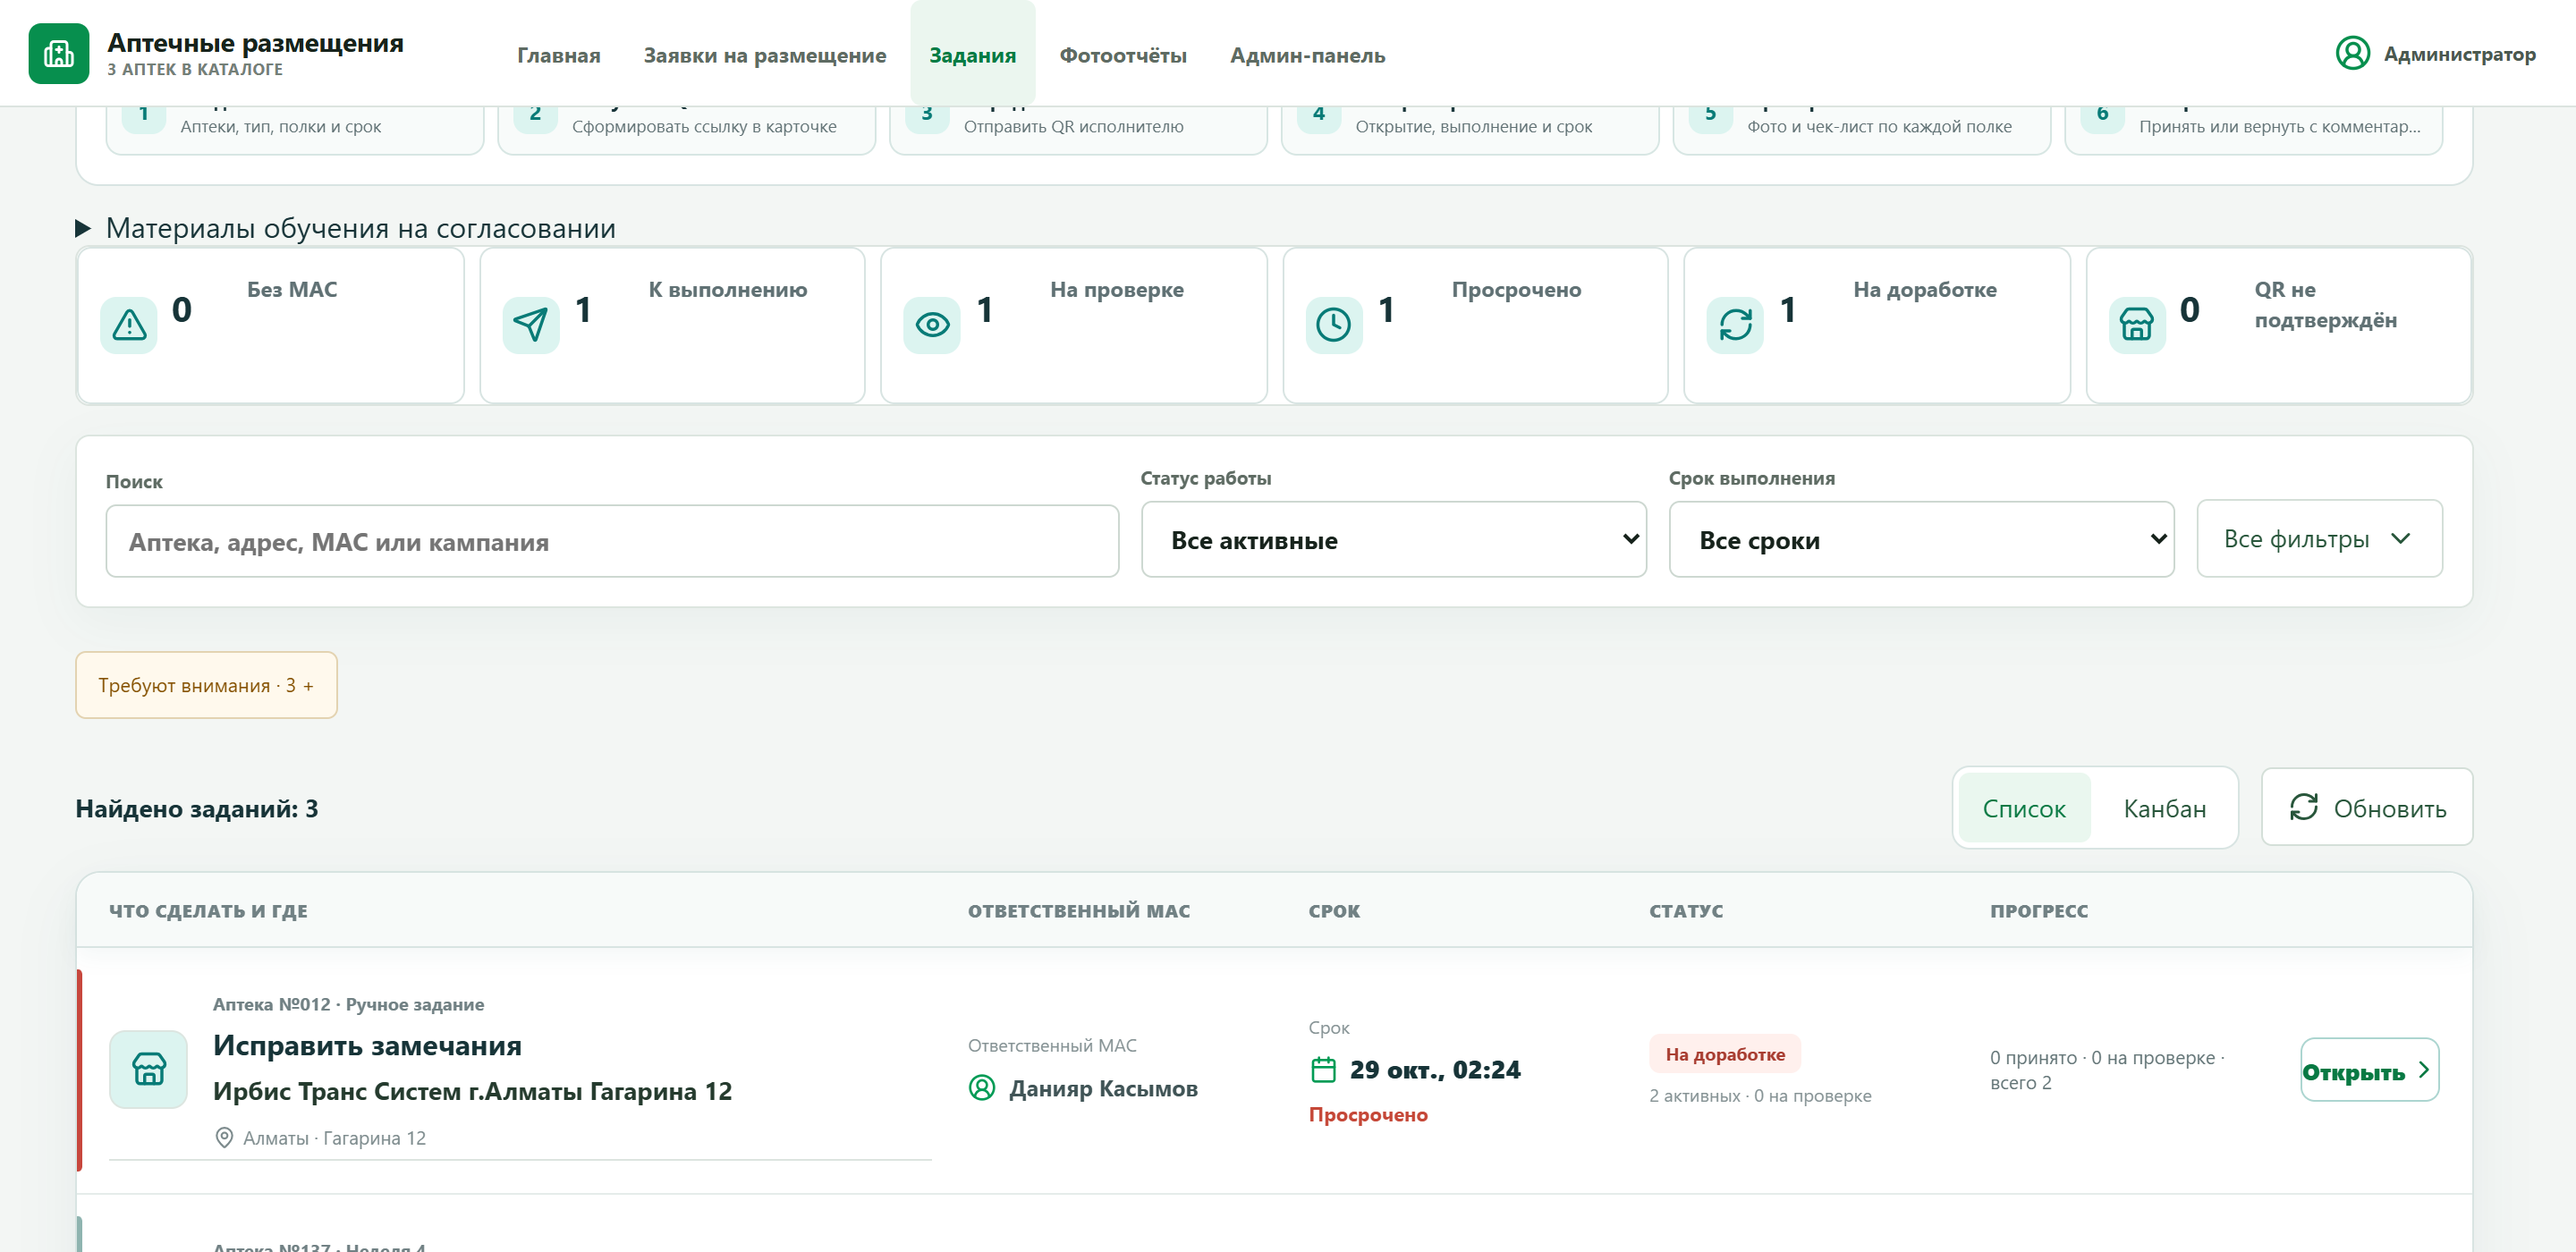
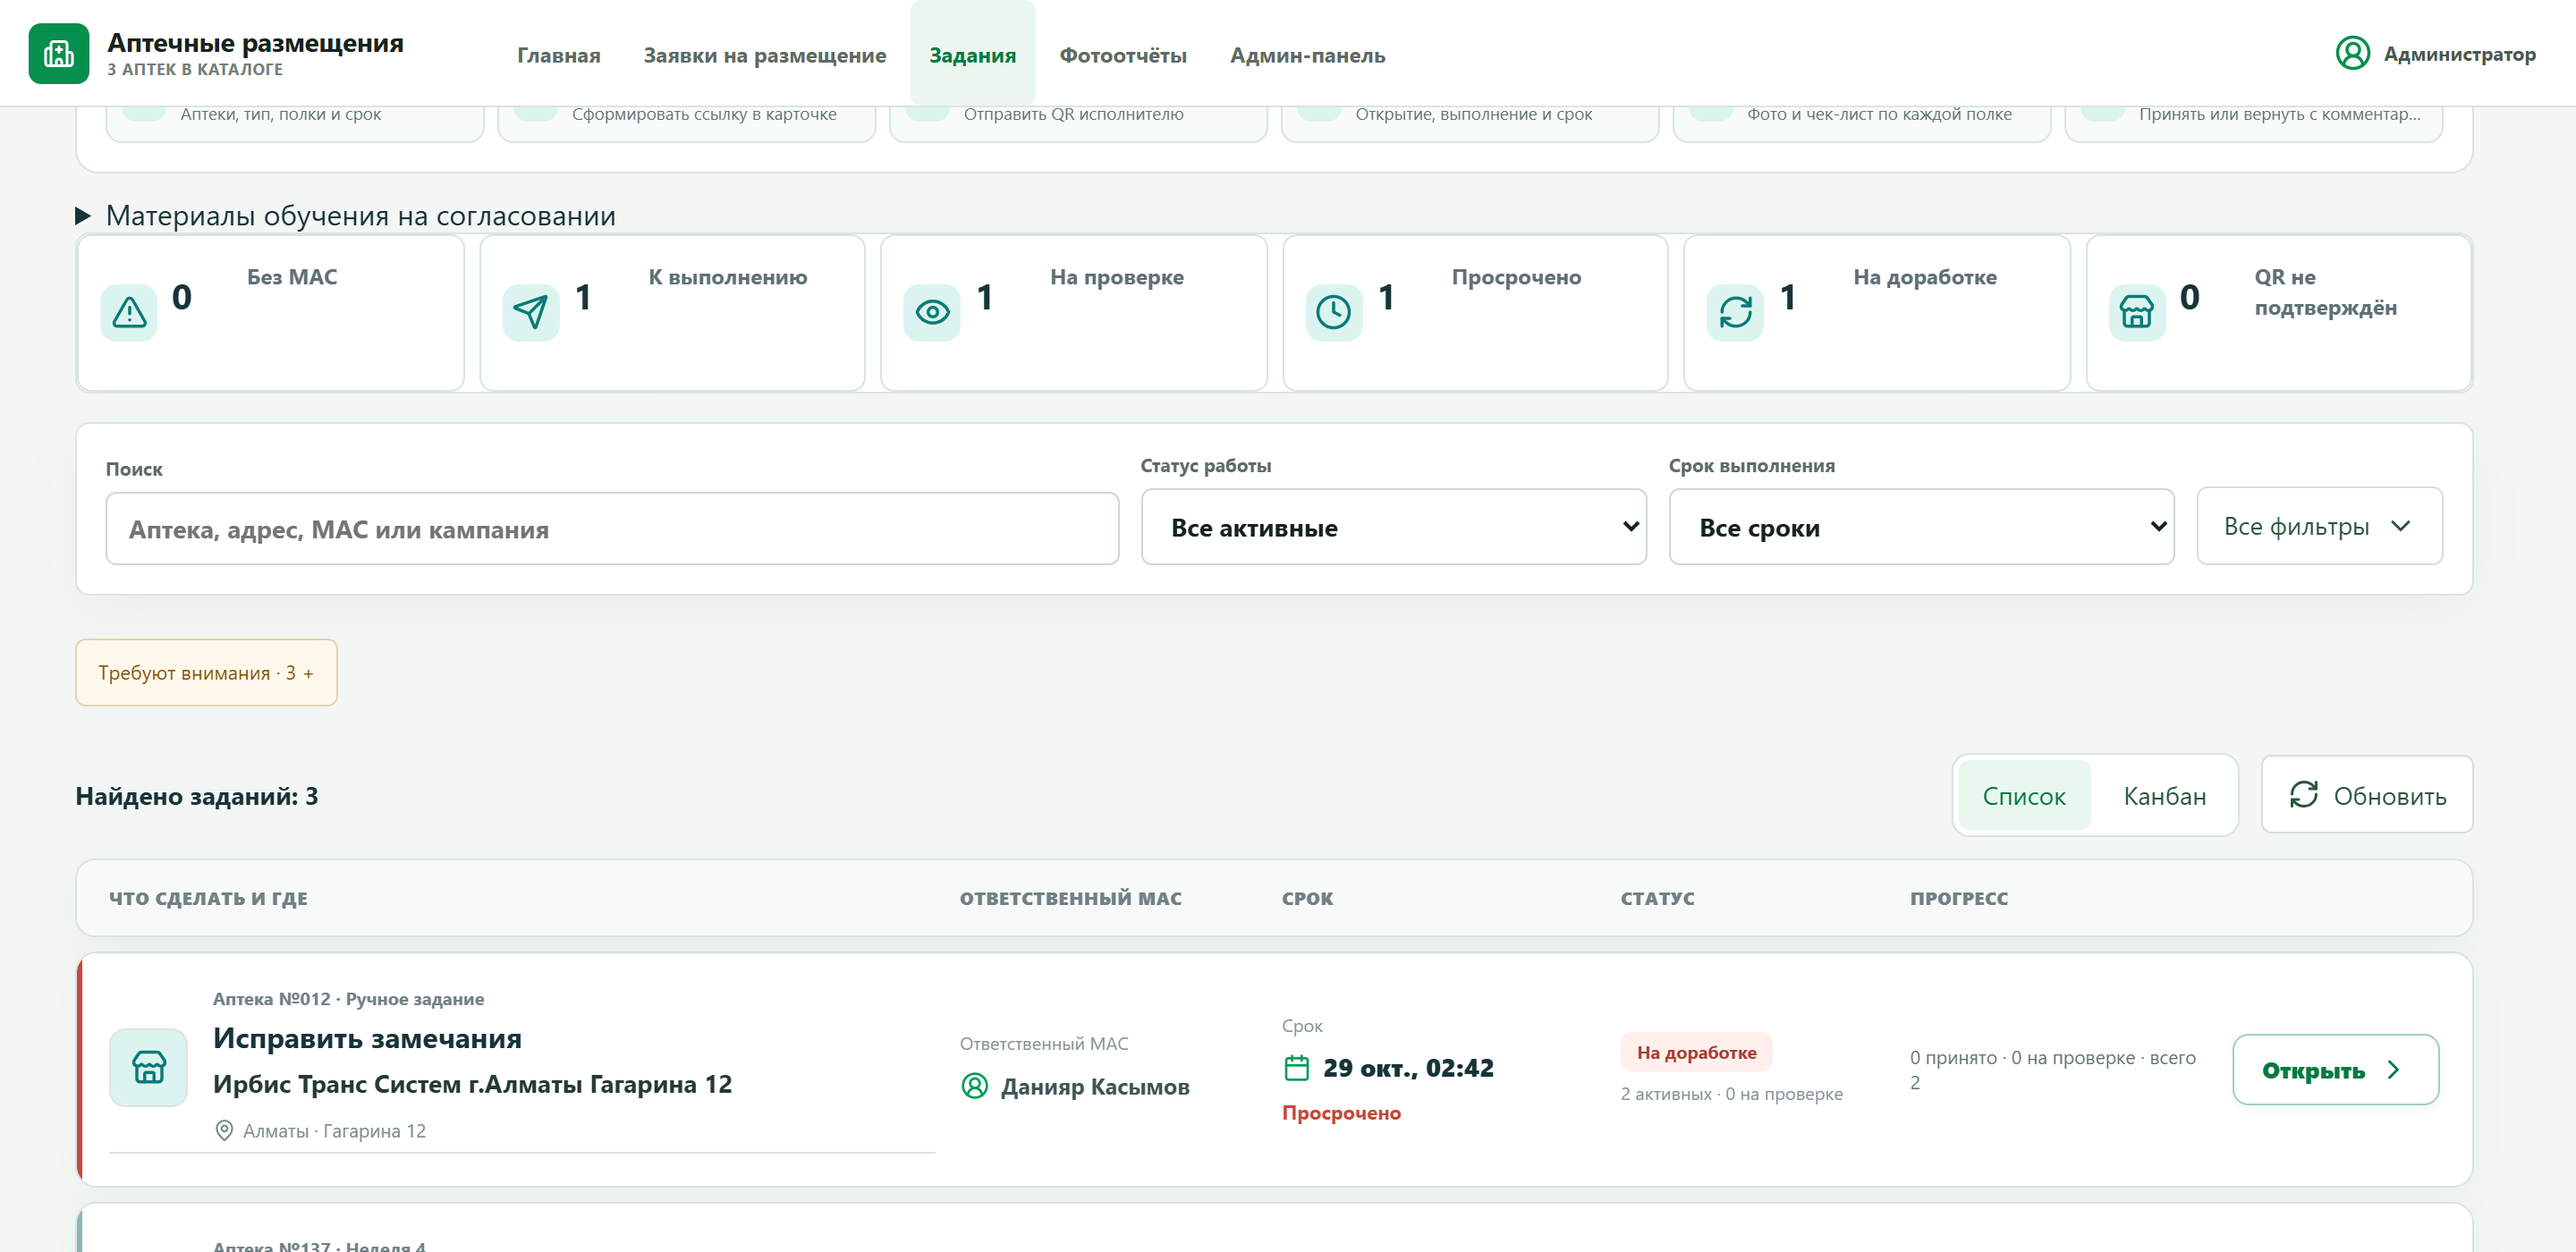
fix(repo): repair merch action layout and CI audits

diff --git a/docs/reports/2026-10-29-merchandising-ui-redesign.md b/docs/reports/2026-10-29-merchandising-ui-redesign.md
@@ -2,11 +2,13 @@
 
 ## Результат
 
-Обновлён интерфейс администратора и исполнения без изменения текущего бизнес-флоу. Боевой frontend опубликован на сервере `10.10.1.80` как релиз `merch-epharm-ui-20261029-b7e9c3ae0971`.
+Обновлён интерфейс администратора и исполнения без изменения текущего бизнес-флоу. Боевой frontend опубликован на сервере `10.10.1.80` как релиз `merch-epharm-ui-20261029-246c9553b557`.
 
 Что изменено:
 
 - очередь заданий стала заметно легче для сканирования: основное действие и аптека выделены, срок и статус читаются быстрее, вторичная информация приглушена;
+- действие «Открыть» больше не сжимается: для него закреплена колонка 116 px, текст и стрелка имеют стабильный интервал, а на телефоне действие занимает всю ширину карточки;
+- строки очереди разделены на самостоятельные карточки с отдельной адаптивной раскладкой для планшета;
 - шапка таблицы закреплена при длинной прокрутке, прогресс больше не обрезается;
 - сильный красный акцент оставлен только для просрочки, отсутствующего МАС и возврата на доработку;
 - схема процесса сворачивается, а на телефоне фильтры занимают меньше места;
@@ -30,15 +32,15 @@
 - 2 теста прокрутки страницы заданий: успешно;
 - 7 тестов minimal redesign: успешно;
 - 8 тестов P0/P1 operational improvements: успешно;
-- визуальная проверка 1440 × 1000 и 390 × 844: горизонтального переполнения нет;
-- production smoke: 27 карточек загружены, asset `assets/index-CXW31EYQ.js`, progress-текст помещается полностью;
+- визуальная проверка 1440 × 1000, 1280 × 900 и 390 × 844: горизонтального переполнения нет, ширина действия 116 / 116 / 336 px соответственно;
+- production smoke: 27 карточек загружены, asset `assets/index-Wxue5Own.js`, очередь и действие открываются на реальных данных;
 - после выкладки PID backend и ID постоянных Docker-контейнеров не изменились.
 
 ## Артефакты
 
 - применяемый diff: [`ops/merch-portal-patches/merch-epharm-ui-redesign-20261029.patch`](../../ops/merch-portal-patches/merch-epharm-ui-redesign-20261029.patch);
[1 lines of base64/hex data omitted]
-- rollback на сервере: `/opt/pharmacy-crm-demo/frontend-rollbacks/dist-before-merch-epharm-ui-20261029-b7e9c3ae0971`.
[1 lines of base64/hex data omitted]
+- rollback на сервере: `/opt/pharmacy-crm-demo/frontend-rollbacks/dist-before-merch-epharm-ui-20261029-246c9553b557`.
 
 ### Администратор: центр управления
 

diff --git a/ops/merch-portal-patches/README.md b/ops/merch-portal-patches/README.md
@@ -6,7 +6,7 @@
 
 ## Редизайн рабочих экранов 2026-10-29
 
-`merch-epharm-ui-redesign-20261029.patch` содержит проверенный дизайн-only diff для рабочего кабинета мерчендайзинга. Он добавляет общий визуальный слой в стиле ePharm, улучшает очередь администратора, форму создания пакета, кабинет исполнения и QR-страницу фармацевта. Порядок действий, статусы, API и бизнес-правила не меняются.
+`merch-epharm-ui-redesign-20261029.patch` содержит проверенный дизайн-only diff для рабочего кабинета мерчендайзинга. Он добавляет общий визуальный слой в стиле ePharm, улучшает очередь администратора, форму создания пакета, кабинет исполнения и QR-страницу фармацевта. Последняя ревизия также устраняет сжатие действия «Открыть»: отдельная колонка увеличена до 116 px, строки разделены на самостоятельные карточки, а для планшета и телефона заданы отдельные раскладки. Порядок действий, статусы, API и бизнес-правила не меняются.
 
 Патч также включает ранее подготовленное исправление нижней панели оформления заказа производителя: итог, навигация и основная кнопка больше не перекрываются и корректно ведут себя на коротком экране. Отчёт, контрольные SHA и скриншоты находятся в [`docs/reports/2026-10-29-merchandising-ui-redesign.md`](../../docs/reports/2026-10-29-merchandising-ui-redesign.md).
 
@@ -18,6 +18,7 @@
[4 lines of base64/hex data omitted]
 
 ## Что исправляет
 
